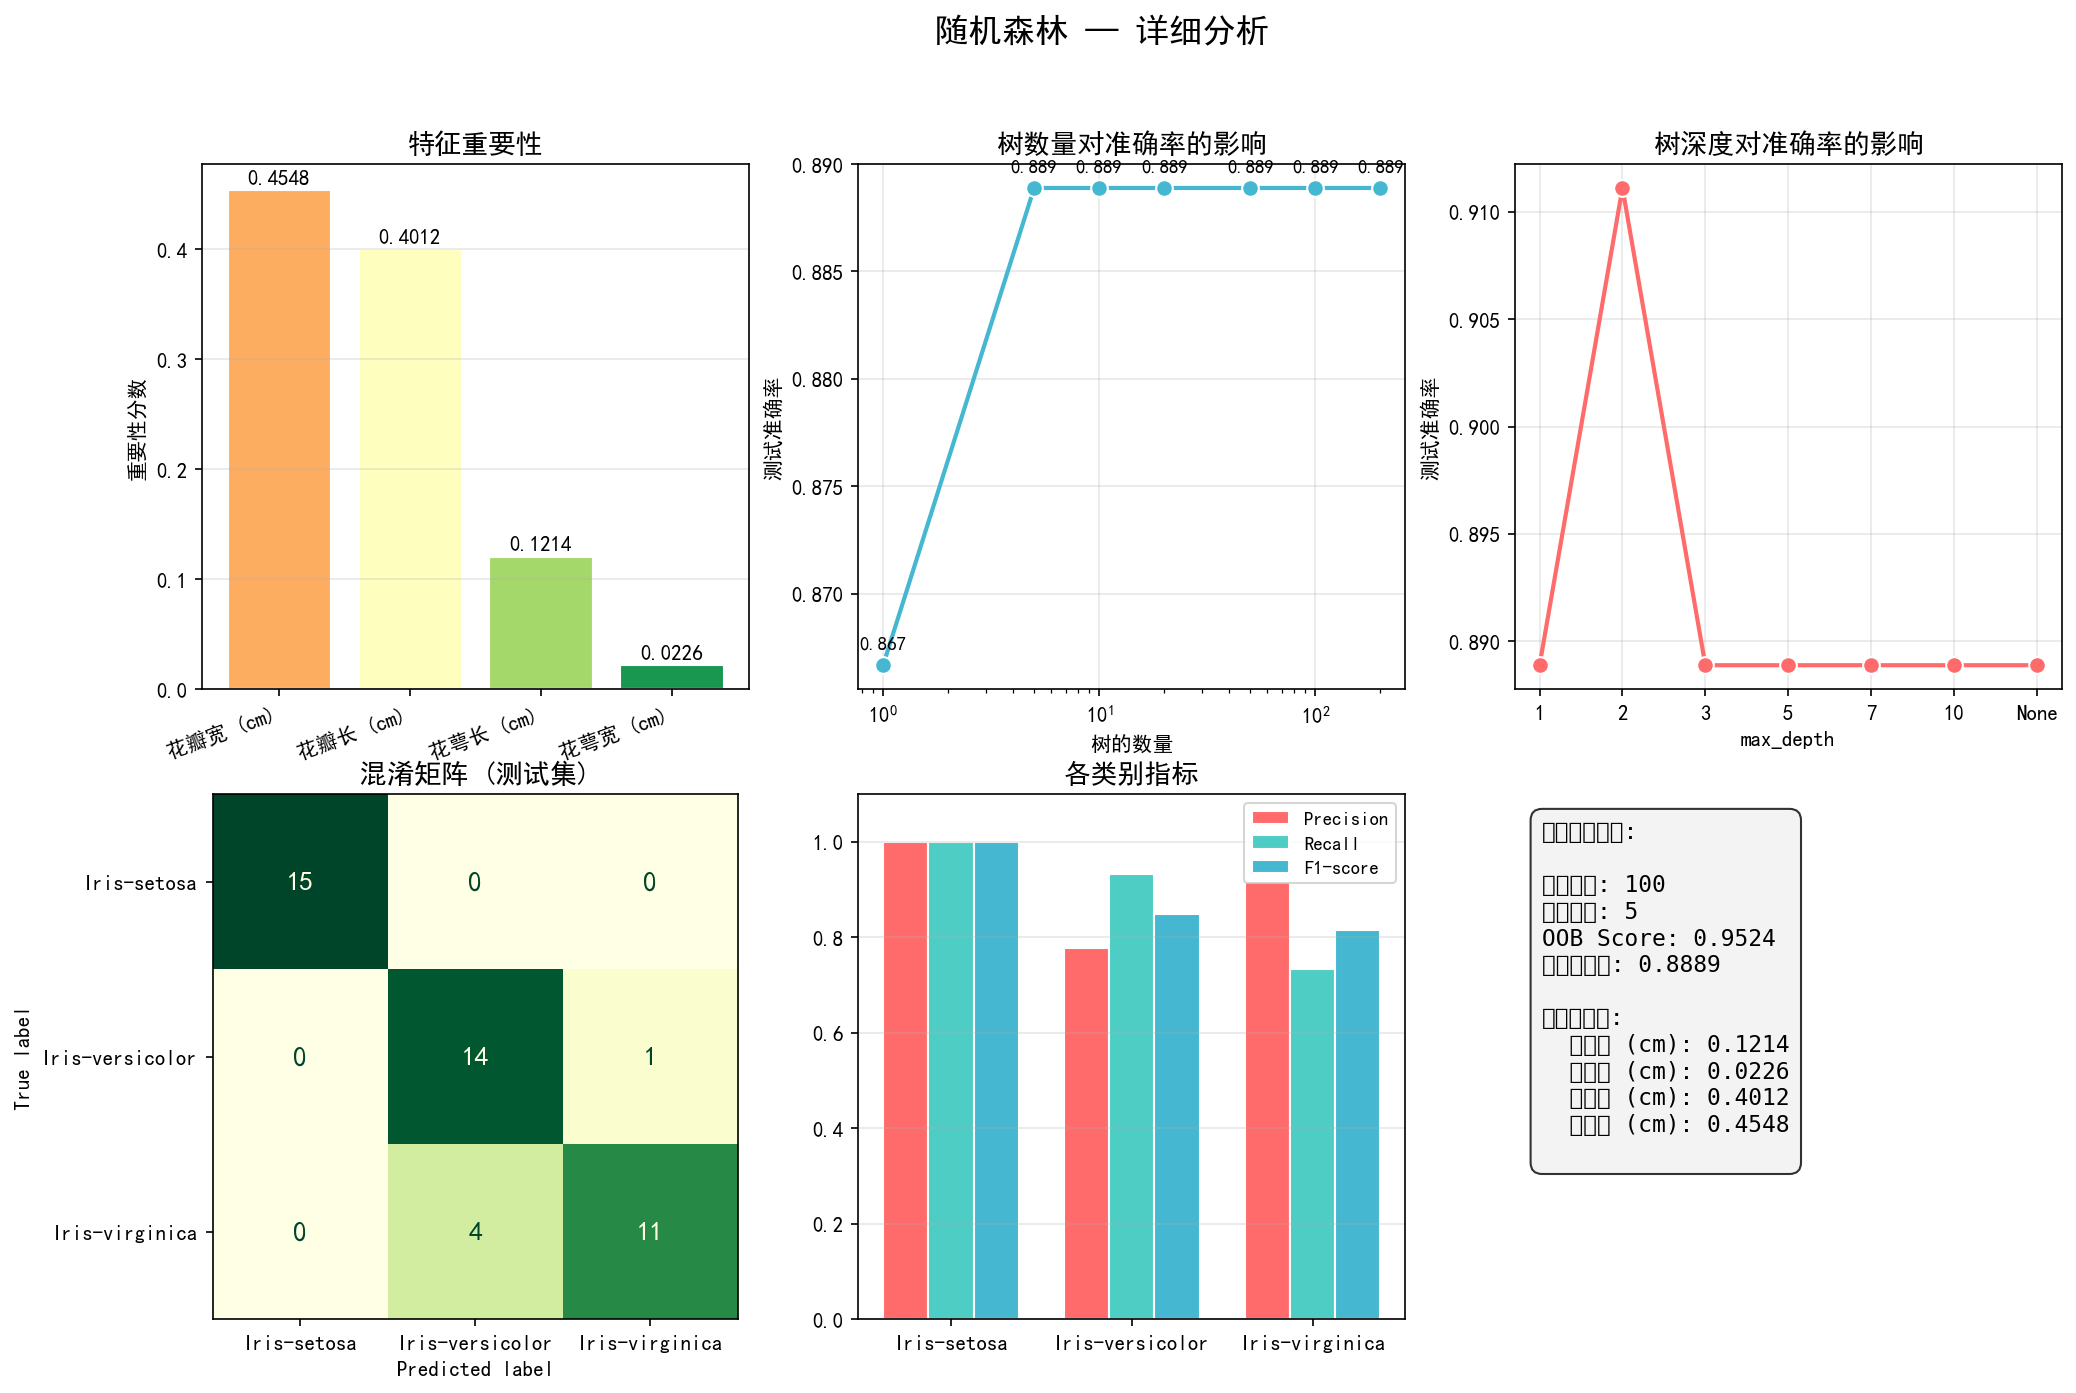
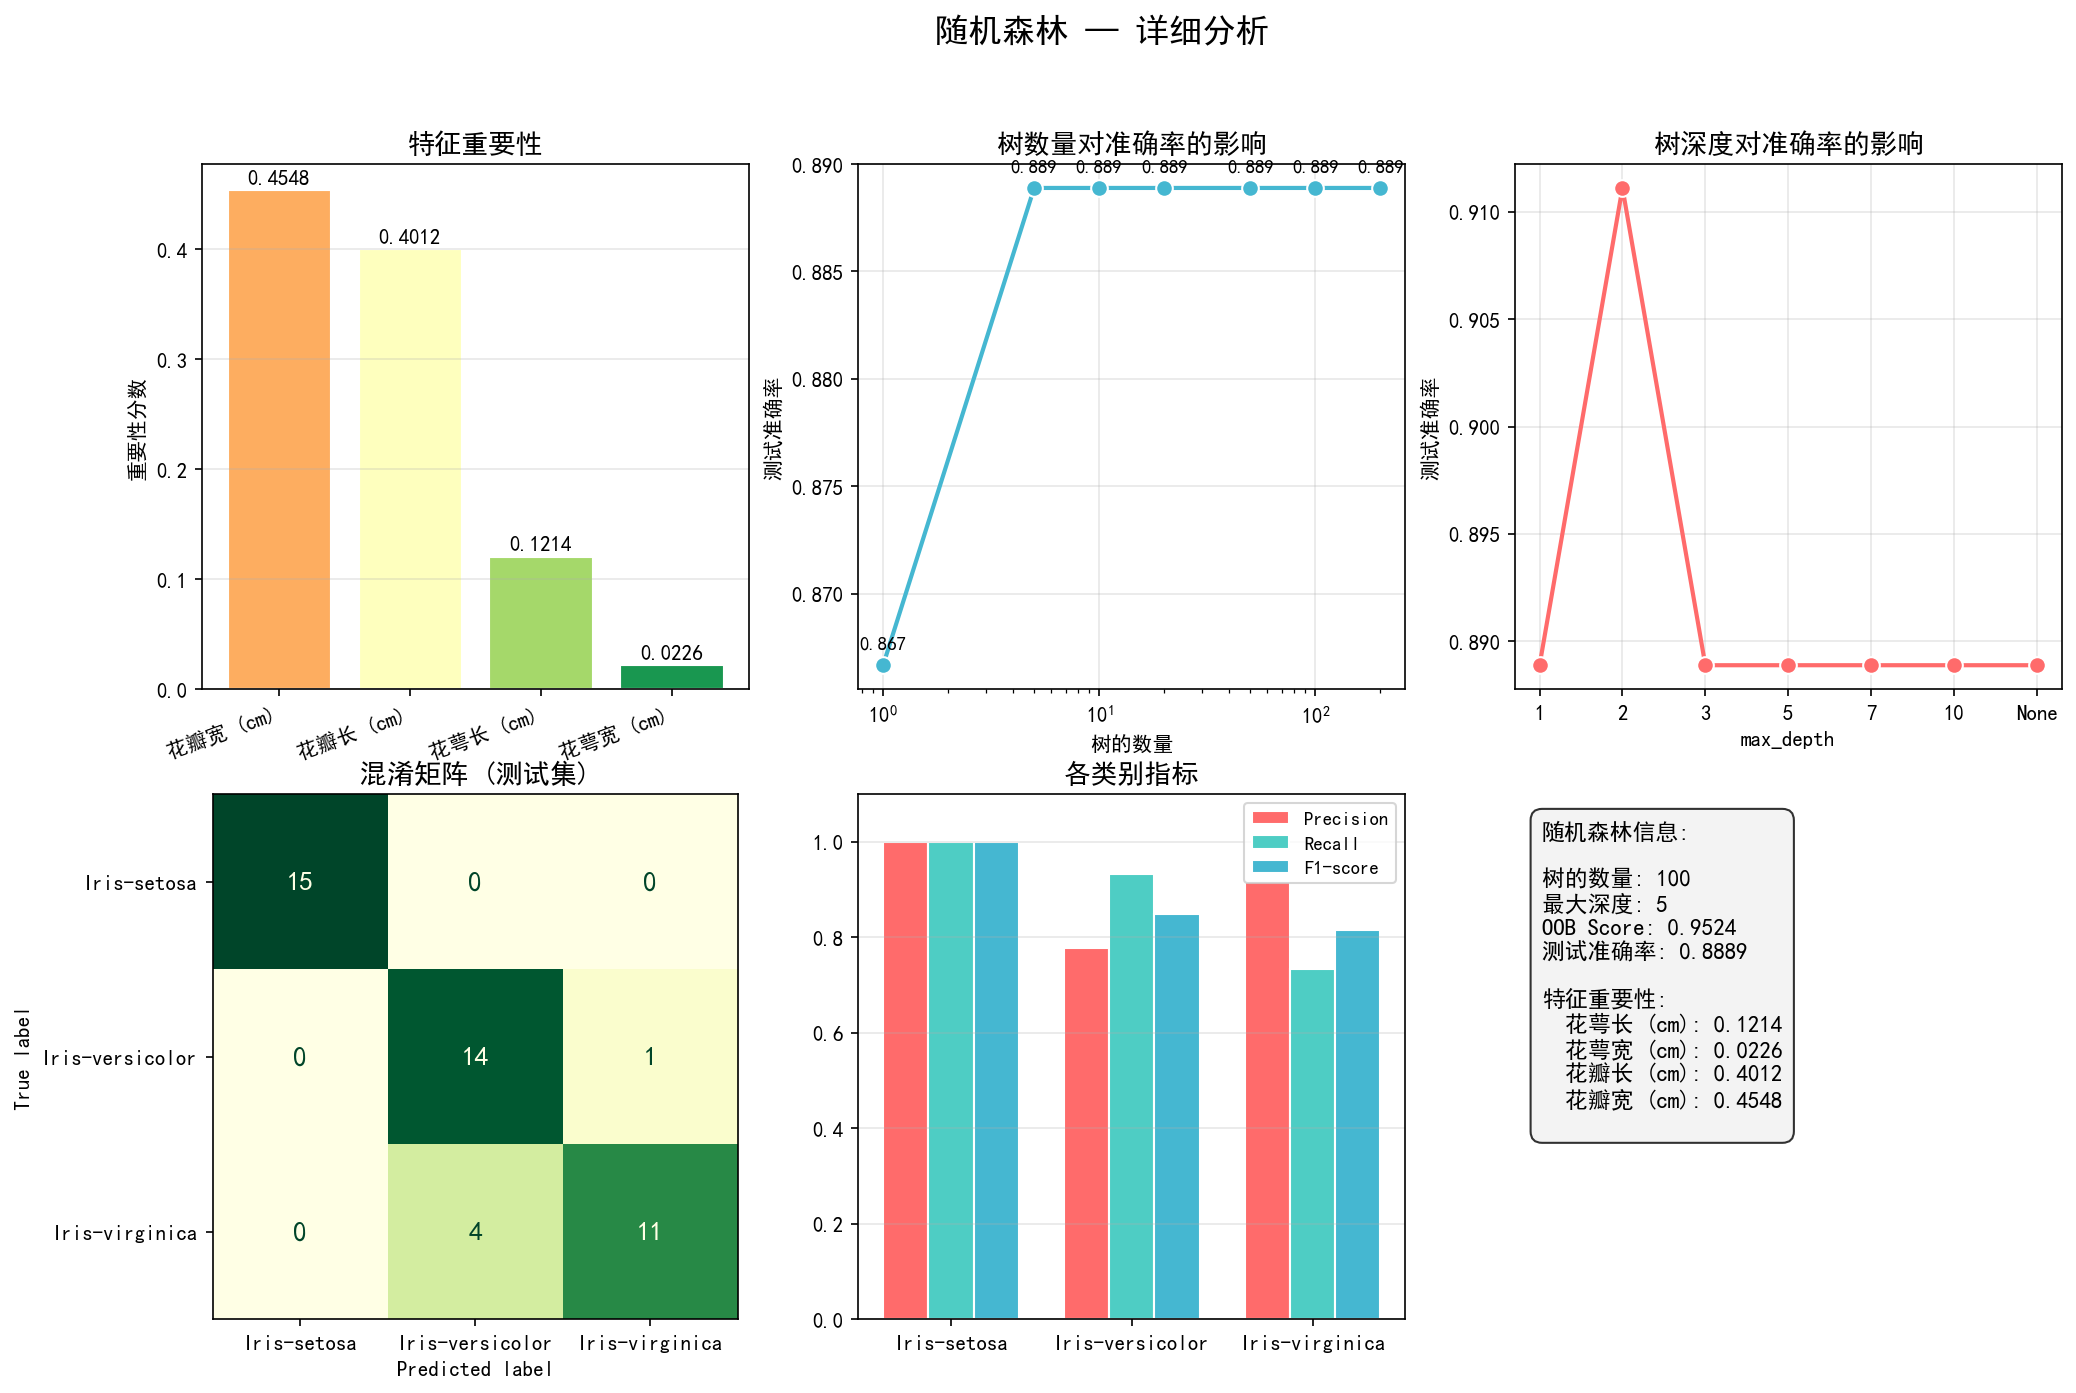
feat: update visualization images and refine text formatting in classification plot

Changed region(s): [[0.7399, 0.5865, 0.8632, 0.8335]]

diff --git a/iris/classify.py b/iris/classify.py
@@ -643,7 +643,7 @@ info_text = (
 for name, imp in zip(feature_names, importances):
     info_text += f"  {name}: {imp:.4f}\n"
 ax.text(0.05, 0.95, info_text, transform=ax.transAxes, fontsize=11,
-        fontfamily="monospace", verticalalignment="top",
+        verticalalignment="top",
         bbox=dict(boxstyle="round,pad=0.5", facecolor="#f0f0f0", alpha=0.8))
 
 fig5.savefig("iris/05_random_forest.png", dpi=150, bbox_inches="tight")